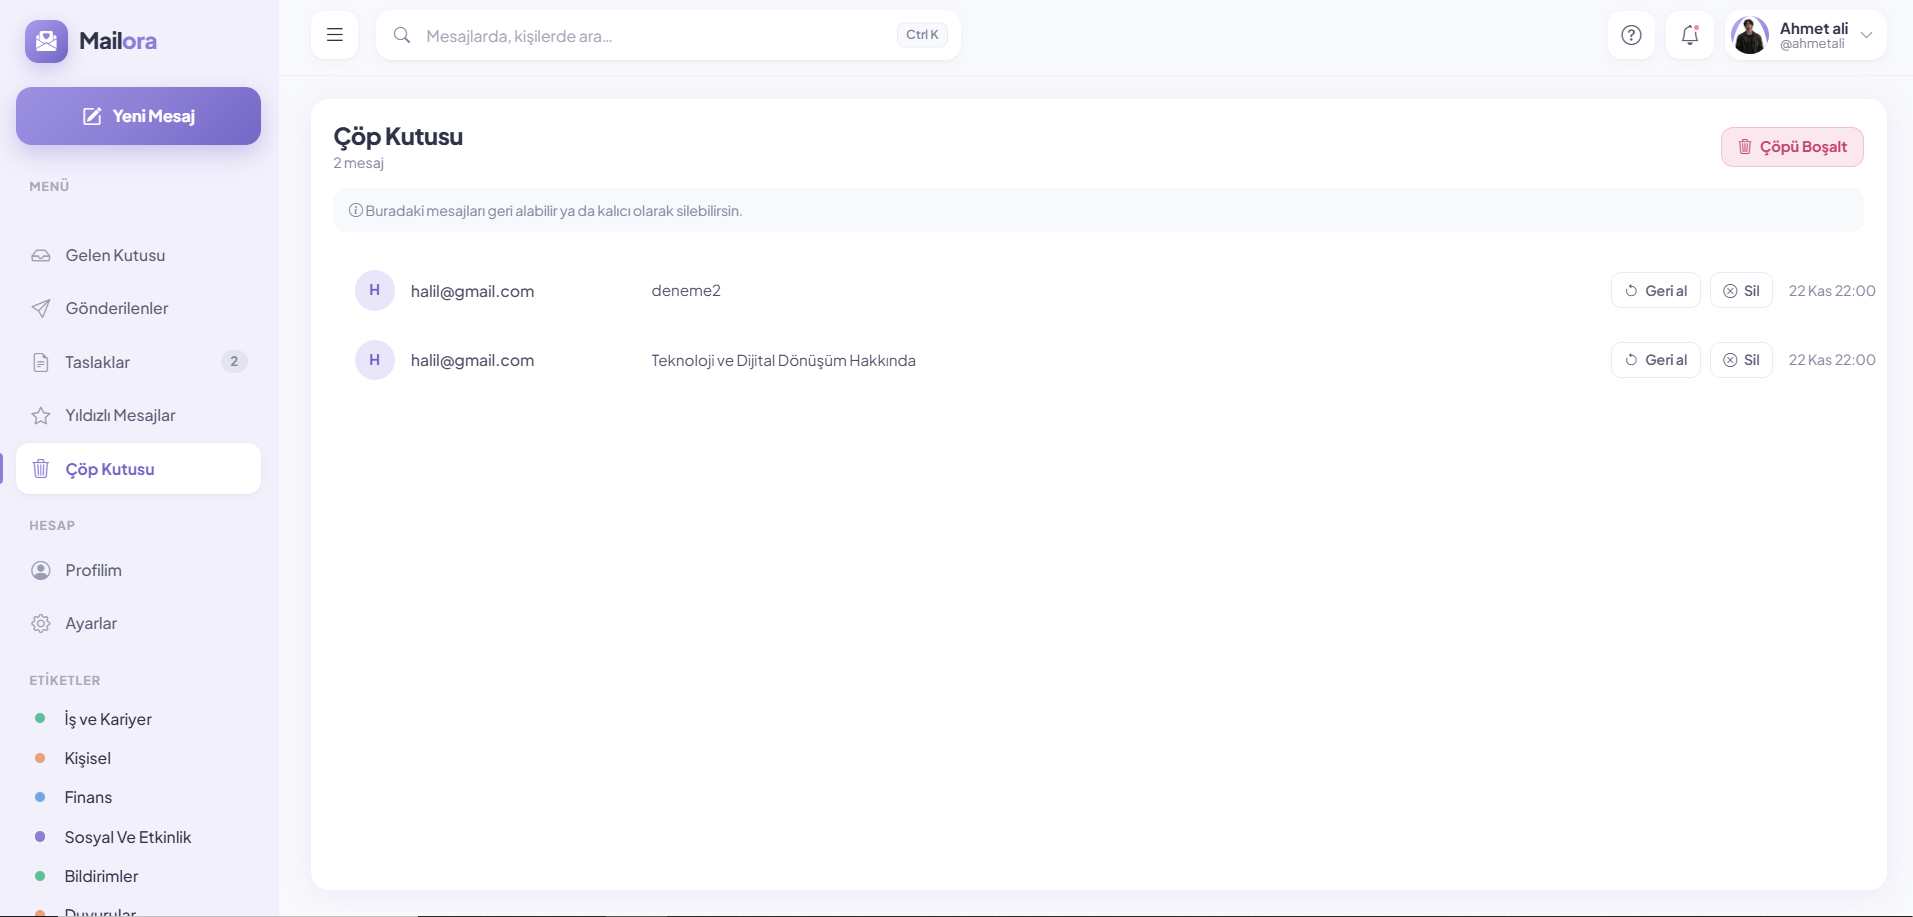
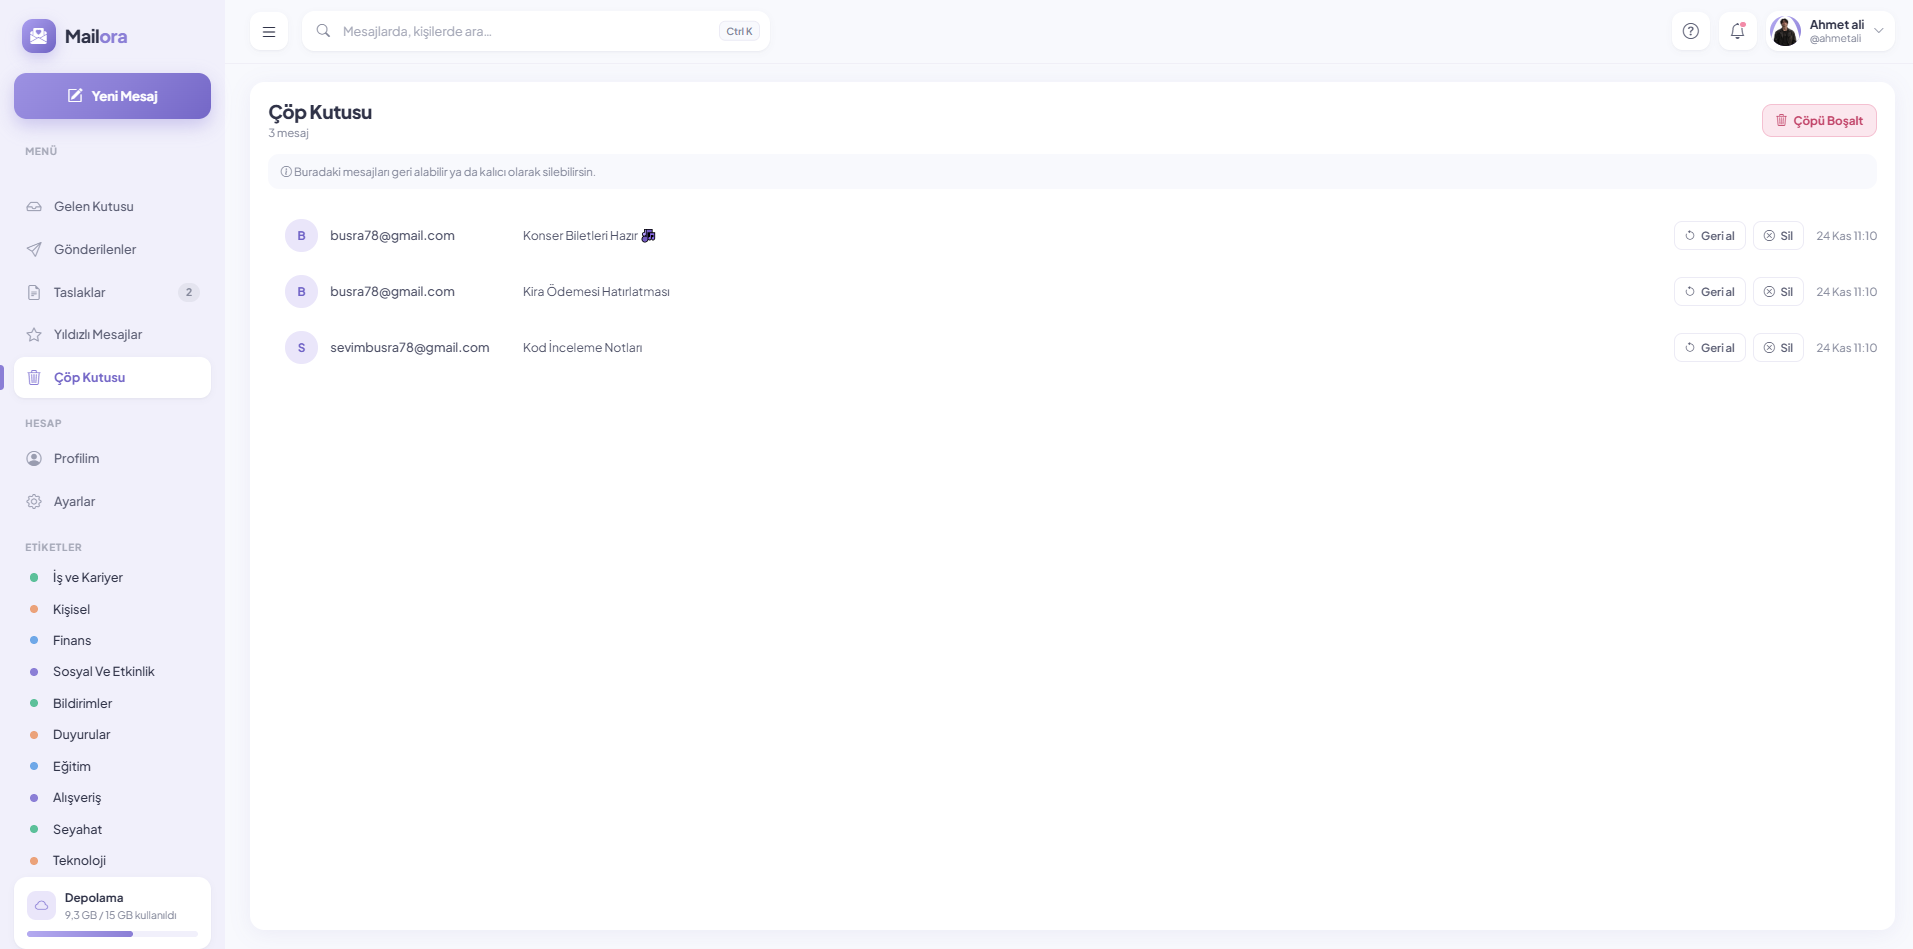
README düzenlendi

diff --git a/README.md b/README.md
@@ -104,7 +104,16 @@ Zengin metin editörüyle (kalın, italik, liste, bağlantı vb.) biçimlendiril
 
 ![Yeni mesaj](docs/images/07-yeni-mesaj.png)
 
-### 8. Çöp Kutusu
+### 8. Gönderilenler
+Kullanıcının gönderdiği tüm mesajlar, alıcı bilgisi ve gönderim tarihiyle birlikte en yeniden en eskiye listelenir.
+
+- **Kullanıcıya özel:** Her kullanıcı yalnızca kendi gönderdiği mesajları görür.
+- **Anında yansıma:** Kayıtlı bir kullanıcıya gönderilen mesaj, aynı anda alıcının Gelen Kutusuna da düşer.
+- **Taslaklar ayrı tutulur:** Henüz gönderilmemiş mesajlar bu listede görünmez, "Taslaklar" sayfasında bekler.
+
+![Gönderilenler](docs/images/11-gonderilenler.png)
+
+### 9. Çöp Kutusu
 Silinen mesajlar veritabanından hemen silinmez, önce çöp kutusuna taşınır (soft delete).
 
 - **Geri Al:** Silme işleminden sonraki 5 saniye içinde "Geri Al" butonuyla işlem iptal edilebilir.
@@ -113,7 +122,7 @@ Silinen mesajlar veritabanından hemen silinmez, önce çöp kutusuna taşınır
 
 ![Çöp kutusu](docs/images/08-cop-kutusu.png)
 
-### 9. Profil
+### 10. Profil
 Kullanıcı ad, soyad ve "Hakkımda" bilgilerini düzenleyip profil fotoğrafı yükleyebilir.
 
 - **Güvenli fotoğraf yükleme:** Dosyanın boyutu, uzantısı ve gerçekten bir resim olup olmadığı kontrol edilir.
@@ -121,7 +130,7 @@ Kullanıcı ad, soyad ve "Hakkımda" bilgilerini düzenleyip profil fotoğrafı 
 
 ![Profil](docs/images/09-profil.png)
 
-### 10. Hata Sayfaları
+### 11. Hata Sayfaları
 Uygulamanın tasarımıyla uyumlu, özel **401**, **403** ve **404** hata sayfaları hazırlandı.
 
 - **Yönlendirme kısayolları:** Kullanıcı tek tıkla gelen kutusuna, gönderilenlere veya yeni mesaj sayfasına dönebilir.
